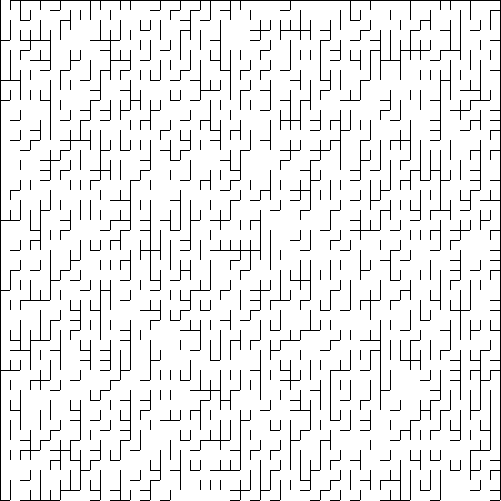
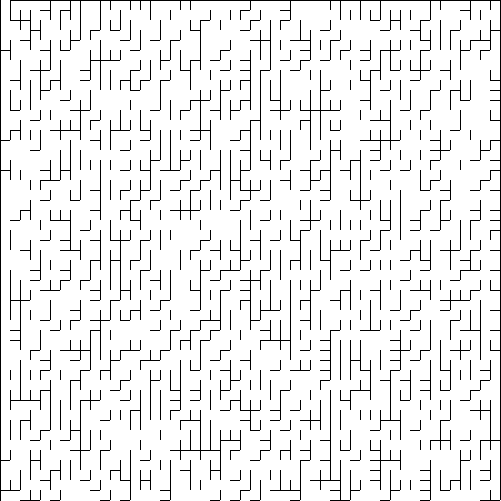
OKR

diff --git a/maze.cpp b/maze.cpp
@@ -50,9 +50,9 @@ void SquareMaze::makeMaze(int w, int h)
 	for(int i=0; i<2*w*h; i++)
 		walls.push_back(i);
 
-	vector<bool> processed;
+	vector<int> processed;
 	for(int i=0; i<w*h; i++)
-		processed.push_back(false);
+		processed.push_back(2);
 
 	srand(time(NULL));	
 	while(!forest.isConnected())
@@ -70,7 +70,7 @@ void SquareMaze::makeMaze(int w, int h)
 		int x = cell%width; //its x coordinate
 		int y = cell/width; //its y coordinate
 		
-		if(processed[cell]) continue;
+		if(processed[cell]==0) continue;
 	
 		switch(atRandom%2) //Is the wall an rwall or a dwall?
 		{
@@ -83,12 +83,14 @@ void SquareMaze::makeMaze(int w, int h)
 					forest.setunion(cell, cell+1);
 					setWall(x, y, 0, false);
 					walls.erase(walls.begin() + random);
+					processed[cell]--;
 					break;
 			case 1: if(y+1 >= height) break;
 					if(forest.find(cell) == forest.find(cell+width)) break;
 					forest.setunion(cell, cell+width);
 					setWall(x, y, 1, false);
 					walls.erase(walls.begin() + random);
+					processed[cell]--;
 					break;
 			default: break;
 		}
